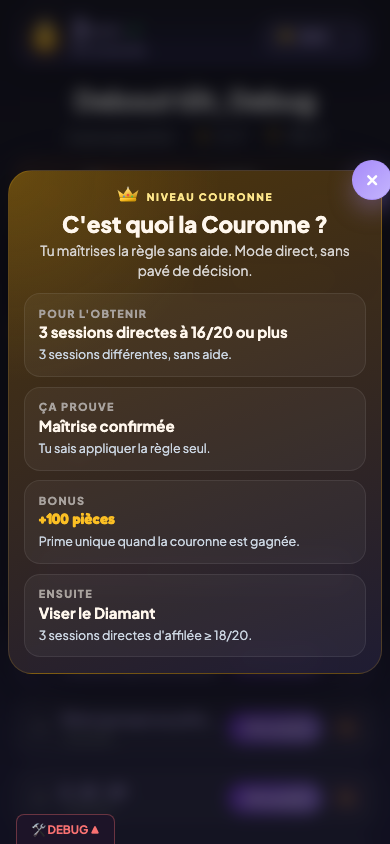
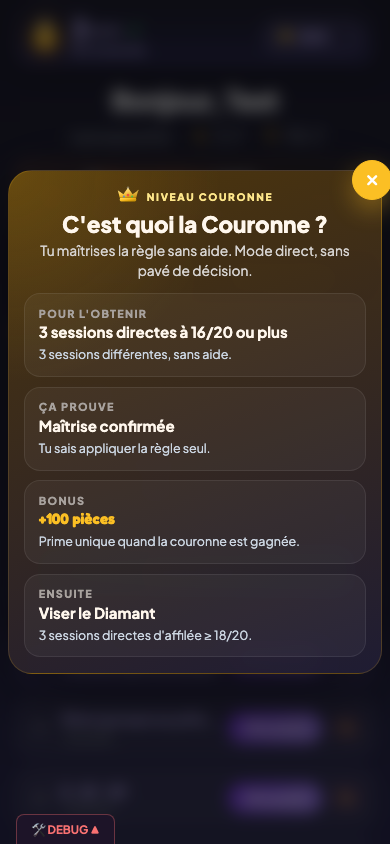
feat: add LevelHelpPopup capture to capture-shop-rewards.js
Captures popup-bronze, popup-argent, popup-couronne screenshots
by seeding progress and clicking the LevelPath nodes. Screenshots
now show the corrected values (12/20 instead of %).

Changed region(s): [[0.8923, 0.1848, 1.0, 0.2464], [0.7077, 0.0924, 0.8308, 0.154], [0.1846, 0.0924, 0.2769, 0.154]]

diff --git a/orthographe-app/docs/capture-shop-rewards.js b/orthographe-app/docs/capture-shop-rewards.js
@@ -58,6 +58,79 @@ async function main() {
     console.log('  Aliases: popup-niveau, popup-couronne, popup-diamant');
   } catch {}
 
+  // ── Level info popups (LevelHelpPopup) ──
+  // Each level needs a specific progress state so the LevelPath shows the right node.
+  // We click on the colored circle at the known position to open the popup.
+  const levelConfigs = [
+    { name: 'bronze',   level: 1, x: 90, y: 458 },
+    { name: 'argent',   level: 1, x: 155, y: 458 },
+    { name: 'couronne', level: 2, x: 225, y: 458 },
+    { name: 'diamant',  level: 4, x: 300, y: 458 },
+  ];
+
+  const today = new Date().toISOString().slice(0, 10);
+  const baseProgress = (lvl) => ({
+    userId: 'local', coins: 500, shields: 0,
+    streak: { current: 3, longest: 5, lastActiveDate: today },
+    dailyActivity: { date: today, count: 1, yesterdayCount: 1, bestDaily: 1 },
+    milestones: { firstSession: true },
+    rules: { 'a-a-as': {
+      level: lvl,
+      guidedSessionsCompleted: lvl >= 1 ? 3 : 0,
+      guidedSessionsAbove80: lvl >= 2 ? 3 : lvl >= 1 ? 1 : 0,
+      guidedBestScore: 80,
+      directSessionsCompleted: lvl >= 2 ? 3 : 0,
+      directSessionsAbove80: lvl >= 3 ? 3 : 0,
+      directBestScore: lvl >= 3 ? 90 : 0,
+      directConsecutiveAbove90: lvl >= 4 ? 3 : 0,
+    }},
+    shop: { owned: [], equipped: {}, activeBoosts: {}, mysteryImages: {}, inventory: {} },
+    coaching: { shown: {}, lastShownByArc: {}, dailyShownCount: { date: today, count: 99 } },
+    statsHistory: [], parentalCode: null,
+  });
+
+  for (const cfg of levelConfigs) {
+    const ctx = await browser.newContext({ viewport: MOBILE });
+    const page = await ctx.newPage();
+    await page.addInitScript(({ progress, today }) => {
+      localStorage.setItem('ortho_debug', '1');
+      localStorage.setItem('debug_uid', 'localhost-dev');
+      localStorage.setItem('debug_child_name', 'Test');
+      localStorage.setItem('local:children:localhost-dev', JSON.stringify([{ id: 'c1', name: 'Test', avatar: '', createdAt: '2026-01-01' }]));
+      localStorage.setItem('local:childSettings:localhost-dev:c1', JSON.stringify({ prodQuestionCount: 20 }));
+      localStorage.setItem('local:progress:localhost-dev:c1', JSON.stringify(progress));
+      localStorage.setItem('ortho_first_quiz_bonus_dismissed:c1', today);
+    }, { progress: baseProgress(cfg.level), today });
+
+    await page.goto(`${BASE}/play/c1`, { waitUntil: 'networkidle', timeout: 15000 });
+    await page.waitForTimeout(2000);
+
+    // Click the level node circle
+    await page.mouse.click(cfg.x, cfg.y);
+    await page.waitForTimeout(1200);
+
+    const hasPopup = await page.evaluate(() => document.body.innerText.includes("C'est quoi"));
+    if (hasPopup) {
+      await page.screenshot({ path: join(DIR, `popup-${cfg.name}.png`), fullPage: false });
+      console.log(`  📸 popup-${cfg.name}.png`);
+    } else {
+      console.log(`  ⚠️  popup-${cfg.name}: popup not found, trying nearby positions...`);
+      let found = false;
+      for (const [dx, dy] of [[0,0],[-5,0],[5,0],[0,-5],[0,5],[-10,0],[10,0]]) {
+        await page.mouse.click(cfg.x + dx, cfg.y + dy);
+        await page.waitForTimeout(800);
+        if (await page.evaluate(() => document.body.innerText.includes("C'est quoi"))) {
+          await page.screenshot({ path: join(DIR, `popup-${cfg.name}.png`), fullPage: false });
+          console.log(`  📸 popup-${cfg.name}.png (at offset ${dx},${dy})`);
+          found = true;
+          break;
+        }
+      }
+      if (!found) console.log(`  ❌ popup-${cfg.name}: could not open popup`);
+    }
+    await ctx.close();
+  }
+
   await browser.close();
   console.log(`\n✅ Done!\n`);
 }